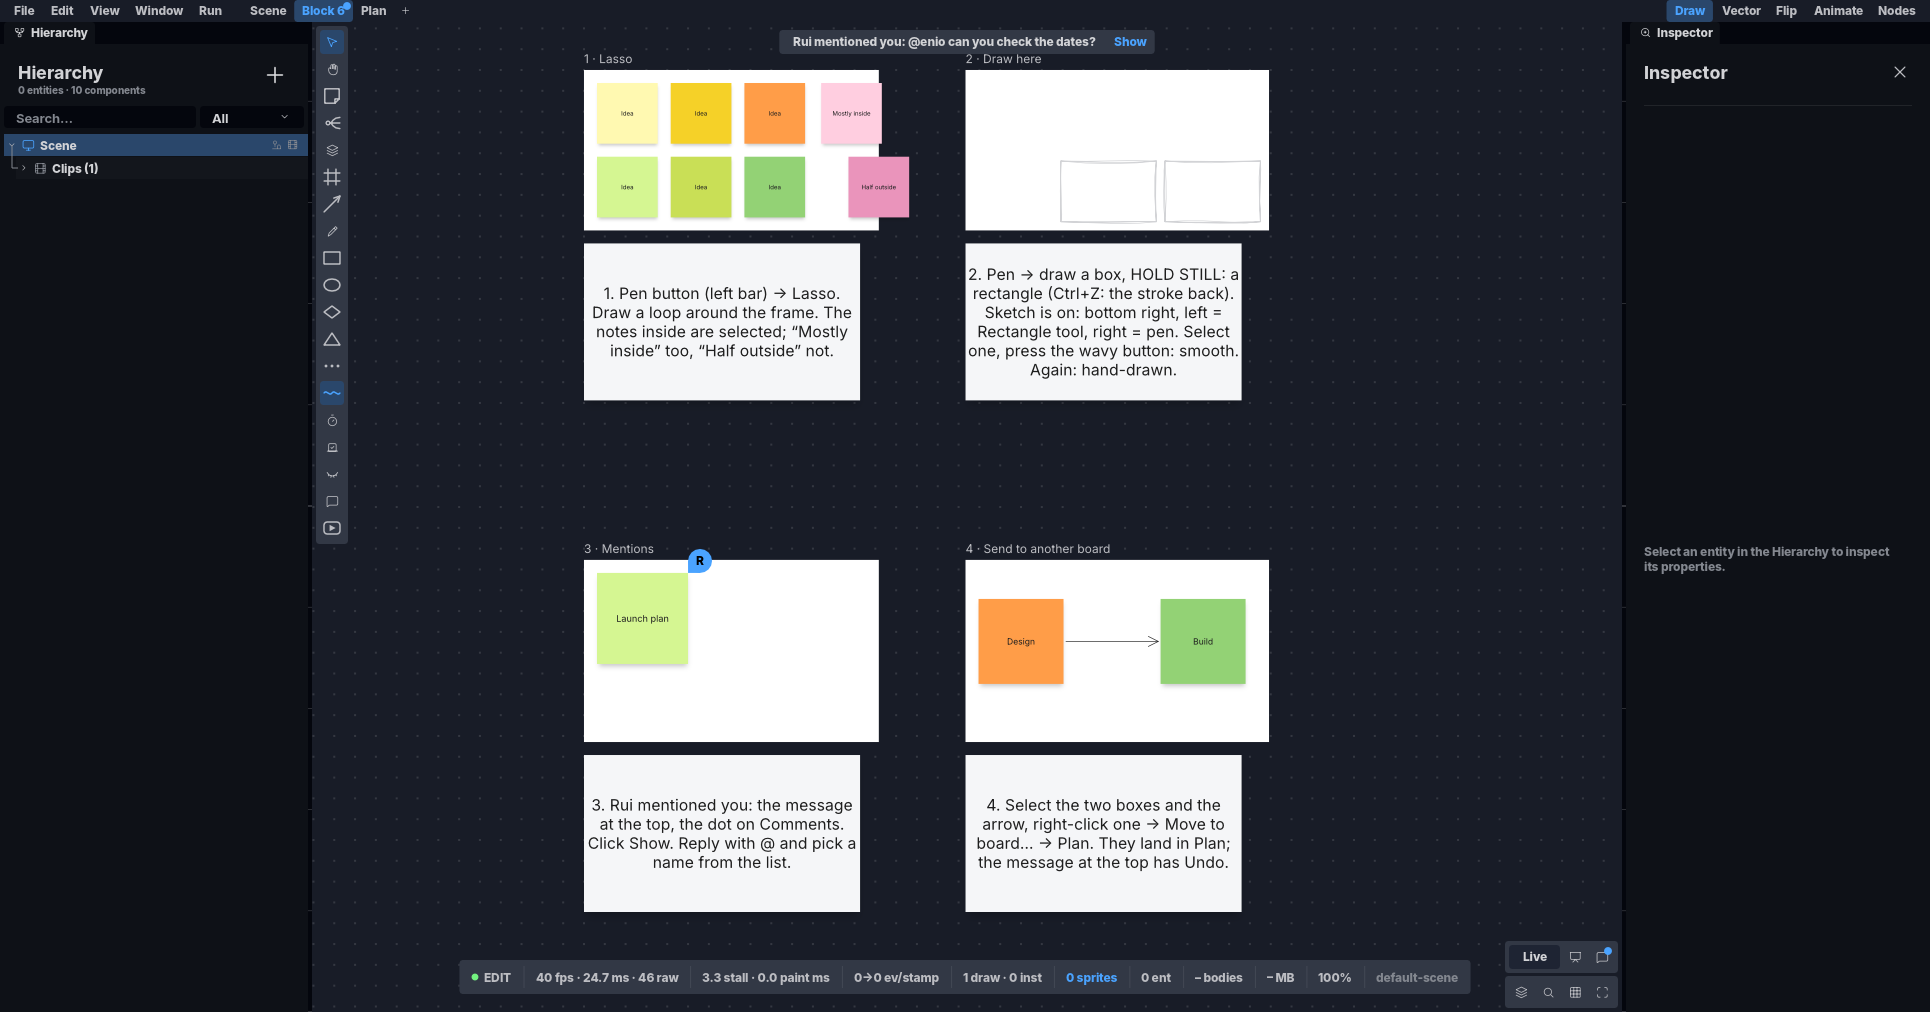
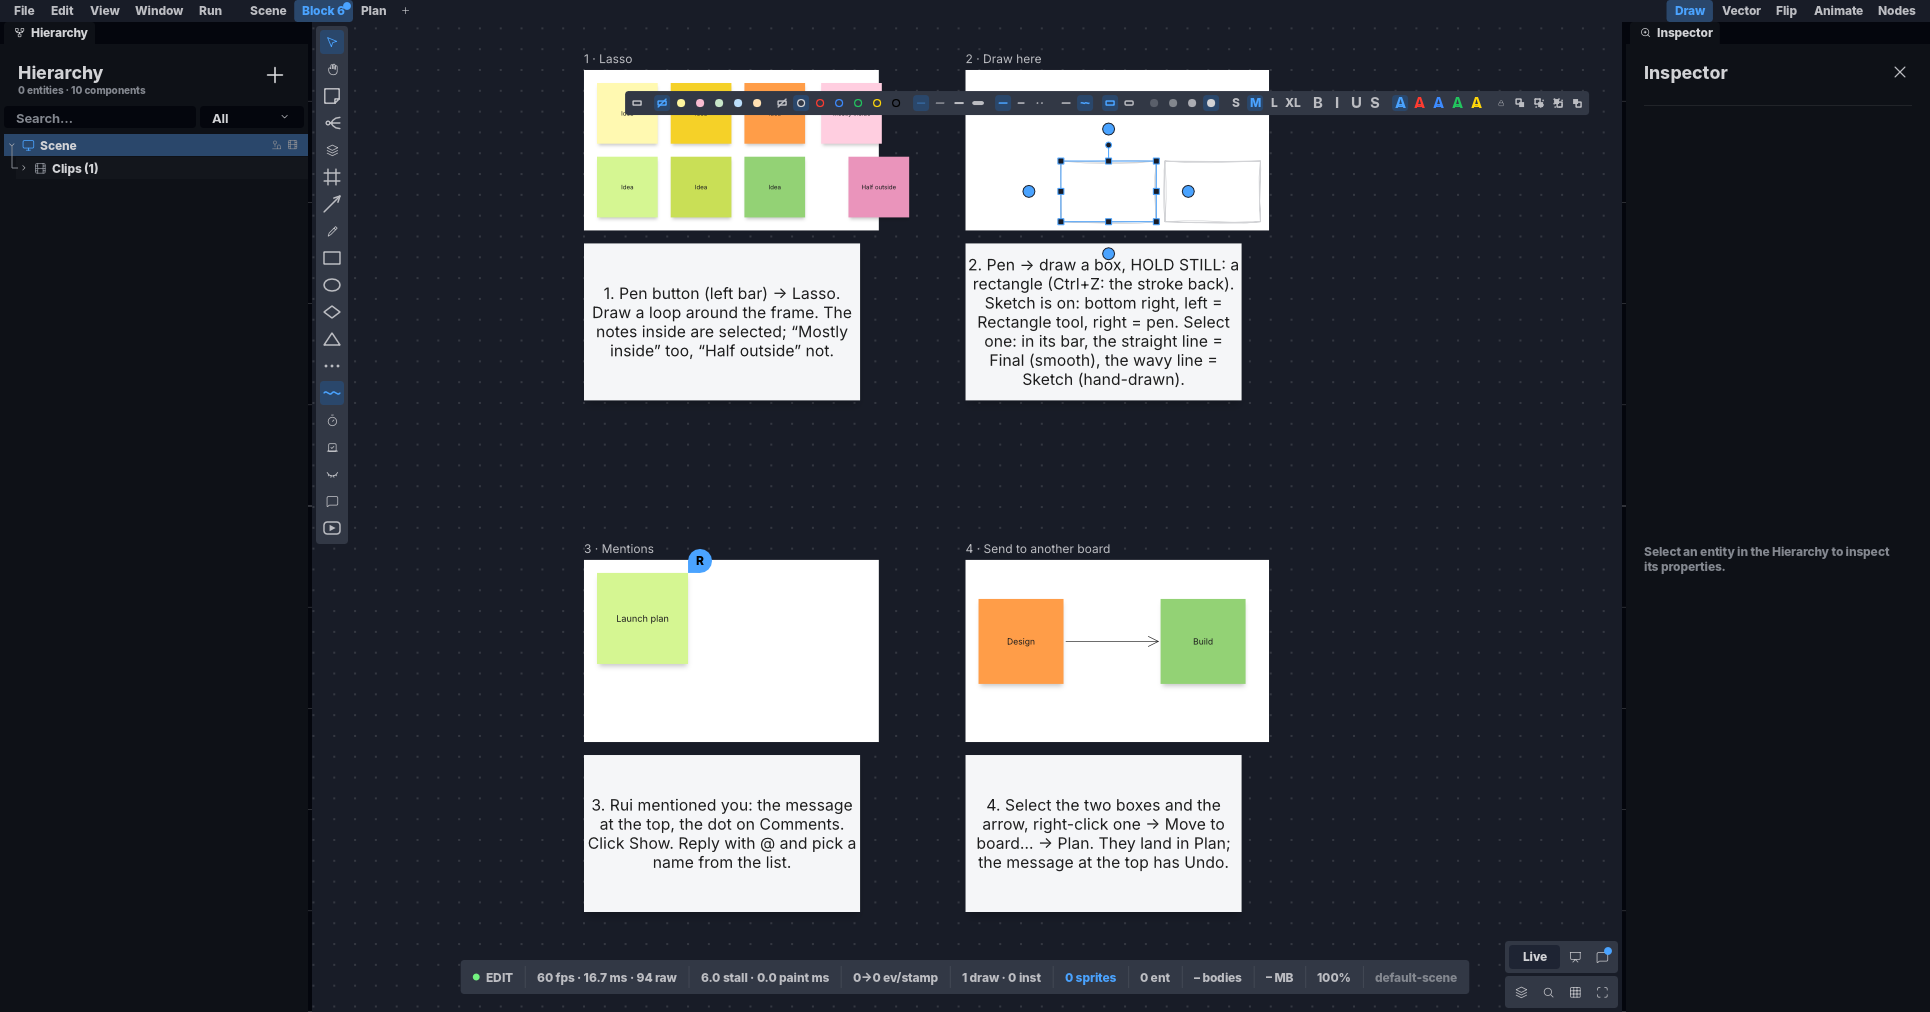
test+docs(MiroClone W23 Sketch): a barra da forma cabe a 800/700 (a mutação strip_rects_at sobrevivia a 1366/1024); doc 17 §9 «Rascunho/Final na barra da FORMA» (oráculo, desenho, gates, 7/7 mutações); fotos da cena 28 com o exemplo seleccionado

diff --git a/crates/ph2d-editor-core/src/screens/hero/board_sketch_ink_tests.rs b/crates/ph2d-editor-core/src/screens/hero/board_sketch_ink_tests.rs
@@ -584,7 +584,7 @@ fn the_option_shows_only_where_the_wave_reaches_the_selection() {
 /// 28, 22/10: uma linha só ia de ponta a ponta, por cima das ferramentas).
 #[test]
 fn the_shapes_bar_never_covers_the_toolbar_nor_leaves_the_board() {
-    for w in [1366.0, 1024.0] {
+    for w in [1366.0, 1024.0, 800.0, 700.0] {
         let mut t = T::new();
         t.vp_w = w;
         t.paint();

diff --git a/docs/MiroClone/17_bloco6_plano.md b/docs/MiroClone/17_bloco6_plano.md
@@ -423,6 +423,40 @@ vivo 10 → 11, `Field::Birth` (ALL 40 → 41), `Field::InkBody` leva `clean`. O
 ecrã, tinta em px de ecrã: perto 4,49 × longe 1,51; botão 0,15 → 1,51; limiar +2,5), `a_lost_release_with_the_shape_shown_…`,
 GPU `no_hand_stroke_paints_far_outside_its_box` (antes 82/60/4/5 px, agora 0), legado `v16`. Mutações: 11/11 sangram.
 
+### Rascunho/Final na barra da FORMA (22/10, decisão do dono — o R1)
+
+**Oráculo** (`ferramentas/excalidraw_oracle/sonda_w23_sloppiness.mjs`, Excalidraw 0.18.1 montado; saída
+`saidas/w23_sloppiness/w23_sloppiness.json`): o grupo «Sloppiness» (Architect · Artist · Cartoonist) aparece para
+`rectangle`, `ellipse`, `diamond`, `arrow`, `line`, `embeddable`; **não** para `text`, `freedraw`, `image`, `frame`. Fica
+logo depois de «Stroke style» (antes de «Edges» / «Arrow type»). Selecção mista com um tipo que o tem: aparece. Mistura de
+roughness 1 + 0: **nenhuma** opção acesa. O clique **PÕE** o valor em toda a selecção (também no `freedraw`/`text` que não
+mostram o grupo); clicar a opção acesa não muda nada.
+
+**Desenho.** `Item::Look(false|true)` = Final/Rascunho (na tabela no FIM: nenhum id se move), depois do tracejado nas barras
+de formas, setas, ambas, imagens (a moldura é `sketchable`, W15) e da forma da caneta (`Selected::Ink`); filtrado para só
+aparecer quando `sketch_targets` alcança a SELECÇÃO — senão o clique trocaria o quadro inteiro, uma mentira numa barra da
+forma (traço livre, nota, frame, vídeo nunca a mostram). Porta única no editor: `Editor::sketch_look` (`Some(true)`,
+`Some(false)`, `None` misturado) e `Editor::set_sketch`; `toggle_sketch = set_sketch(!sketch_lit)` e `sketch_lit =
+sketch_look == Some(true)` — a luz da opção Rascunho é sempre a da onda, o clique é o da onda com o valor escolhido.
+Recusado: um 3.º estado «Cartoonist» (o nosso rascunho tem um só grau); a opção nas notas (o Excalidraw não a dá ao texto;
+a onda continua a alcançá-las).
+
+**Costura que a foto apanhou:** com a opção, a barra da forma ia de ponta a ponta a 1366 (por cima da barra curta).
+`float_bar::strip_rects_fitting`: a barra fica à direita da barra curta e, sem lugar, parte-se nas linhas mínimas de larguras
+parecidas (um grupo nunca se parte) — 2 linhas a 1366, 1 a 1930.
+
+**Cena 28:** o exemplo da ferramenta abre SELECCIONADO (a barra dele à vista); lição ② ensina «linha reta = Final, ondulada =
+Rascunho». Fotos `ferramentas/w23_fotos/cena28_1366.png`, `cena28_1930.png`.
+
+**Gates** (`smart_hand::sketch_ink`; a luz lida como PINTADA — `board_bar::PAINTED_ON`, `cfg(test)`: o fundo aceso e a cara
+dos botões não passam pelo gravador da cena): `the_shapes_own_bar_sketches_it_and_its_light_is_the_waves` (zoom 0,293 e 1;
+tinta +2,5 px; Final devolve a tinta < 0,25 px; modo do quadro intacto), `a_mixed_selection_lights_neither_and_final_sets_both`,
+`the_option_shows_only_where_the_wave_reaches_the_selection`, `the_shapes_bar_never_covers_the_toolbar_nor_leaves_the_board`
+(1366, 1024, 800, 700); cena `the_block6_scene_arms_its_four_stations` (a opção na barra do exemplo). Vermelho primeiro: «Look
+não está pintado». **Mutações 7/7 sangram** (luz por `sketch_lit`, clique por `toggle_sketch`, sem o filtro do alcance,
+`strip_rects_at` em vez de `_fitting` — sobreviveu a 1366/1024 até o gate ganhar 800/700 —, `room = area`, `sketch_look`
+sem `Some(false)`, cena sem a selecção).
+
 ## §10 — M4: o oráculo Excalidraw `next` (0.18.0-143b5b6) corrido sobre cenas NOSSAS (20/10)
 
 Comandos, armamento e tabelas inteiras: [`ferramentas/excalidraw_oracle/README.md`](ferramentas/excalidraw_oracle/README.md)
